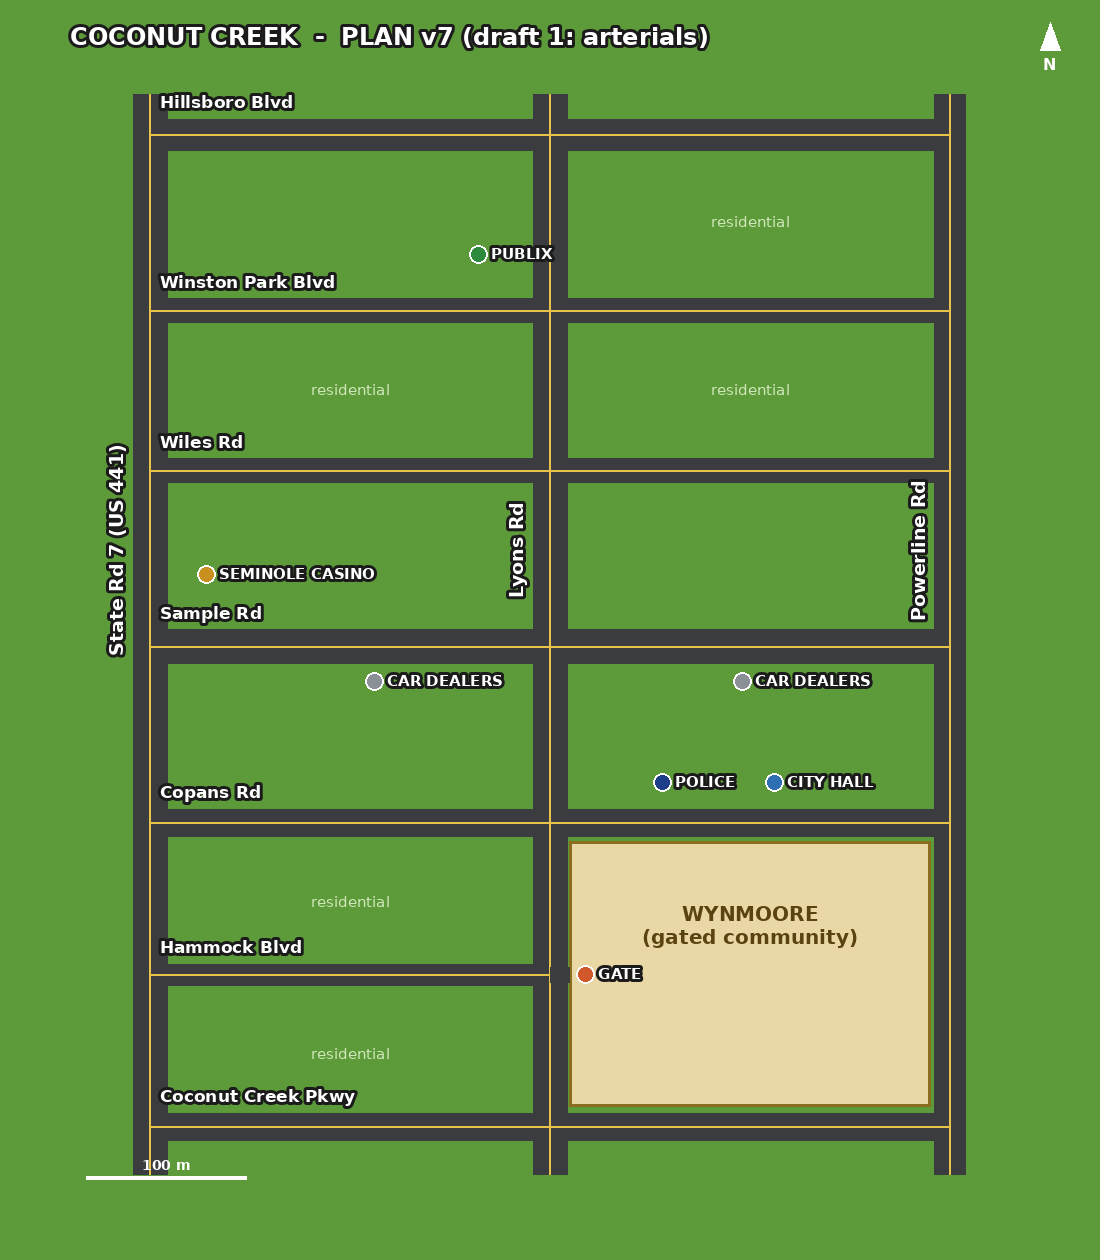
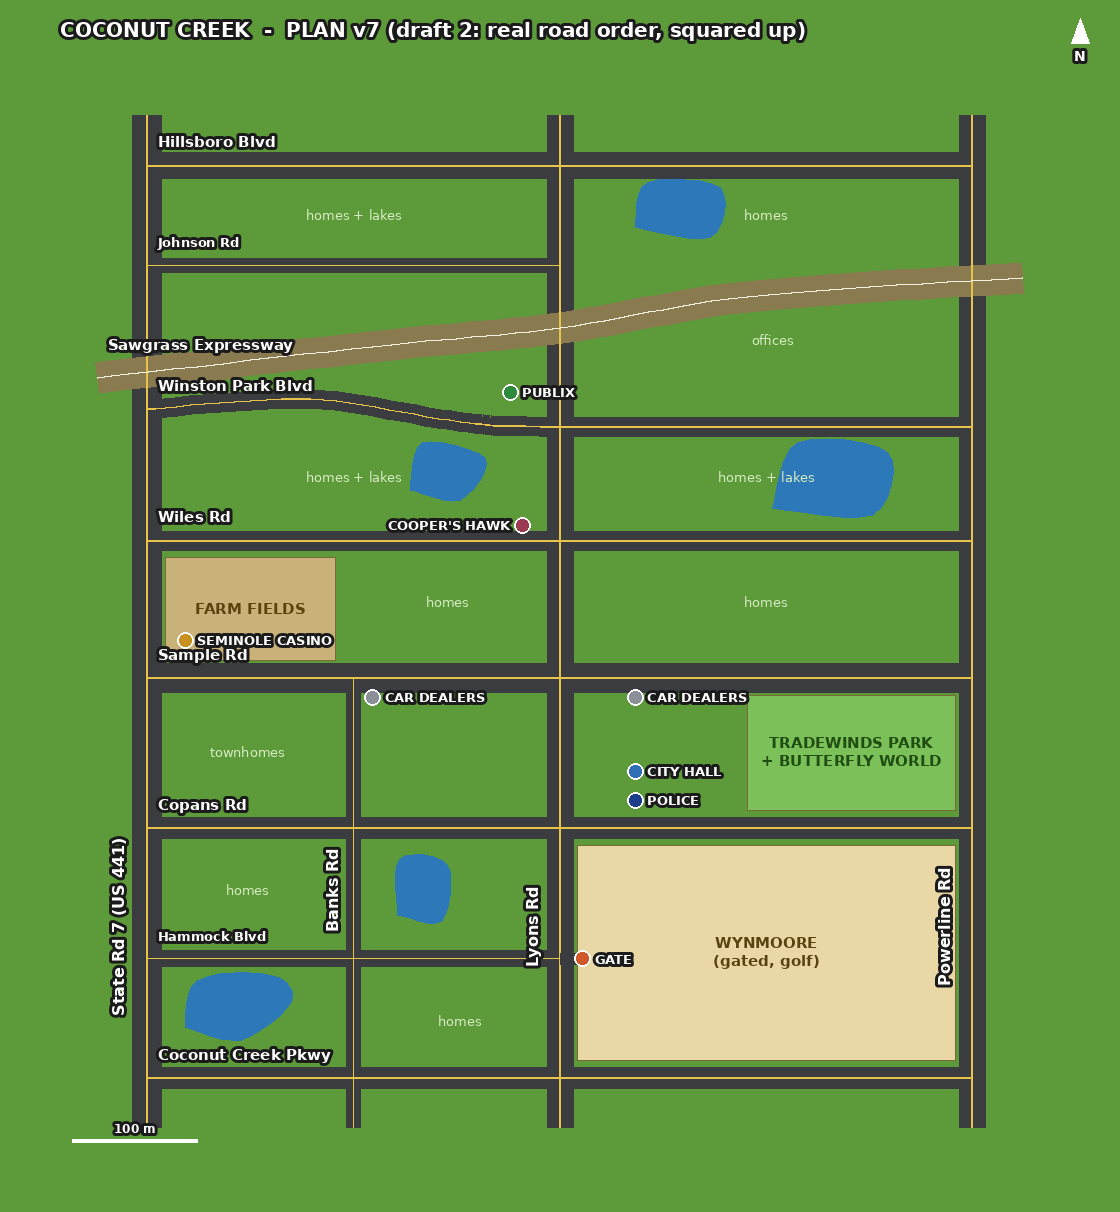
city-clone: plan v7 draft 2 (real road order from screenshots, squared up; Banks, Sawgrass Expressway, Johnson, parks)
Claude-Session: https://claude.ai/code/session_01QbDoFPGu5z24oXZd8dk3Jx

diff --git a/city-clone/plan/v7/plan_v7.py b/city-clone/plan/v7/plan_v7.py
@@ -1,73 +1,84 @@
-"""City plan v7 (round 37): the whole city re-laid from the user's description of the real Coconut Creek road grid.
-Coordinates in metres: x east, y north, origin = Lyons Rd at the south edge. Run: python3 plan_v7.py -> plan_v7.png
+"""City plan v7 (round 37): the whole city re-laid from the user's description of the real Coconut Creek road grid + their Google Maps screenshots.
+The real city is long and skinny (~3 km x 9 km); the game version keeps the real ORDER of roads but squares it up (user: "spread the roads a little wider").
+Coordinates in metres: x east, y north, origin = Lyons Rd at Coconut Creek Pkwy. Run: python3 plan_v7.py -> plan_v7.png
 This file is the single source of truth for the new layout; iterate here with the user before any 3D build."""
 from PIL import Image, ImageDraw, ImageFont
-import os
+import math, os
 
-# ---- arterials (user, round 37) ----
-NS = {  # north-south, west to east: x, width (m)
-    "State Rd 7 (US 441)": (-250, 22),
-    "Lyons Rd": (0, 22),
-    "Powerline Rd": (250, 20),
-}
-EW = [  # east-west, south to north: name, y, x0, x1, width
-    ("Coconut Creek Pkwy", 20, -250, 250, 18),
-    ("Hammock Blvd", 115, -250, 0, 14),            # only west of Lyons; east of Lyons it becomes the Wynmoore entrance
-    ("Copans Rd", 210, -250, 250, 18),
-    ("Sample Rd", 320, -250, 250, 22),
-    ("Wiles Rd", 430, -250, 250, 16),
-    ("Winston Park Blvd", 530, -250, 250, 16),
-    ("Hillsboro Blvd", 640, -250, 250, 20),
+# ---- roads: name, polyline [(x, y)...], width m, kind (art = arterial, hwy = expressway, col = collector) ----
+X441, XBANKS, XLYONS, XPOWER = -330, -165, 0, 330
+Y = dict(pkwy=0, hammock=95, copans=200, sample=320, wiles=430, winston=525, johnson=650, hillsboro=730)
+def curve(pts, n=12):                 # smooth a polyline (Catmull-Rom) so curved roads read as curves
+    out = []
+    for i in range(len(pts) - 1):
+        p0, p1, p2, p3 = pts[max(0, i - 1)], pts[i], pts[i + 1], pts[min(len(pts) - 1, i + 2)]
+        for k in range(n):
+            t = k / n; t2, t3 = t * t, t * t * t
+            out.append(tuple(.5 * ((2 * p1[j]) + (-p0[j] + p2[j]) * t + (2 * p0[j] - 5 * p1[j] + 4 * p2[j] - p3[j]) * t2 + (-p0[j] + 3 * p1[j] - 3 * p2[j] + p3[j]) * t3) for j in (0, 1)))
+    out.append(pts[-1]); return out
+ROADS = [
+    ("State Rd 7 (US 441)", [(X441, -40), (X441, 770)], 24, "art"),
+    ("Banks Rd", [(XBANKS, -40), (XBANKS, Y["sample"])], 12, "col"),                    # screenshots: west of Lyons, from the south edge up to Sample
+    ("Lyons Rd", [(XLYONS, -40), (XLYONS, 770)], 22, "art"),
+    ("Powerline Rd", [(XPOWER, -40), (XPOWER, 770)], 22, "art"),
+    ("Coconut Creek Pkwy", [(X441, Y["pkwy"]), (XPOWER, Y["pkwy"])], 18, "art"),
+    ("Hammock Blvd", [(X441, Y["hammock"]), (XLYONS, Y["hammock"])], 14, "col"),          # west of Lyons only; east of Lyons = the Wynmoore gate drive
+    ("Copans Rd", [(X441, Y["copans"]), (XPOWER, Y["copans"])], 18, "art"),
+    ("Sample Rd", [(X441, Y["sample"]), (XPOWER, Y["sample"])], 24, "art"),
+    ("Wiles Rd", [(X441, Y["wiles"]), (XPOWER, Y["wiles"])], 16, "art"),
+    ("Winston Park Blvd", curve([(X441, Y["winston"] + 10), (-200, Y["winston"] + 18), (-80, Y["winston"]), (XLYONS, Y["winston"] - 4), (XPOWER, Y["winston"] - 4)]), 16, "art"),   # real one bends up toward 441
+    ("Sawgrass Expressway", curve([(X441 - 40, 560), (-150, 585), (XLYONS, 600), (150, 625), (XPOWER + 40, 640)]), 26, "hwy"),          # the big diagonal highway between Winston Park and Johnson
+    ("Johnson Rd", [(X441, Y["johnson"]), (XLYONS, Y["johnson"])], 12, "col"),
+    ("Hillsboro Blvd", [(X441, Y["hillsboro"]), (XPOWER, Y["hillsboro"])], 22, "art"),
 ]
-# ---- areas / landmarks ----
-ZONES = [  # (label, x0, y0, x1, y1, fill)
-    ("WYNMOORE\n(gated community)", 12, 32, 238, 198, "#e9d8a6"),
+# ---- areas ----
+ZONES = [  # label, polygon, fill, text colour
+    ("WYNMOORE\n(gated, golf)", [(14, 14), (316, 14), (316, 186), (14, 186)], "#e9d8a6", "#5a4310"),
+    ("FARM FIELDS", [(-316, 334), (-180, 334), (-180, 416), (-316, 416)], "#c9b27a", "#5a4310"),
+    ("TRADEWINDS PARK\n+ BUTTERFLY WORLD", [(150, 214), (316, 214), (316, 306), (150, 306)], "#7cc05a", "#1f4d12"),
 ]
-SPOTS = [  # (label, x, y, colour)
-    ("PUBLIX", -45, 565, "#2e8b3e"),
-    ("POLICE", 70, 235, "#1d3f8a"),
-    ("CITY HALL", 140, 235, "#2f6fb3"),
-    ("SEMINOLE CASINO", -215, 365, "#c8901e"),
-    ("CAR DEALERS", -110, 298, "#8a8f98"),
-    ("CAR DEALERS", 120, 298, "#8a8f98"),
-    ("GATE", 22, 115, "#d0582a"),
+LAKES = [[(-300, 40), (-255, 30), (-215, 60), (-230, 82), (-290, 78)], [(-120, 470), (-80, 462), (-60, 495), (-110, 508)], [(170, 455), (250, 450), (262, 500), (190, 508)],
+         [(60, 680), (120, 672), (128, 712), (70, 716)], [(-130, 130), (-95, 125), (-90, 170), (-128, 175)]]
+SPOTS = [  # label, x, y, colour, side (1 = label right, -1 = left)
+    ("PUBLIX", -40, 548, "#2e8b3e", 1),
+    ("POLICE", 60, 222, "#1d3f8a", 1),
+    ("CITY HALL", 60, 245, "#2f6fb3", 1),
+    ("SEMINOLE CASINO", -300, 350, "#c8901e", 1),
+    ("CAR DEALERS", -150, 304, "#8a8f98", 1),
+    ("CAR DEALERS", 60, 304, "#8a8f98", 1),
+    ("COOPER'S HAWK", -30, 442, "#9a3b52", -1),
+    ("GATE", 18, Y["hammock"], "#d0582a", 1),
 ]
-RES = [("residential", -125, 480), ("residential", 125, 480), ("residential", 125, 585), ("residential", -125, 160), ("residential", -125, 65)]
+RES = [("homes + lakes", -165, 480), ("homes + lakes", 165, 480), ("homes", 165, 380), ("homes", -90, 380), ("homes", -250, 150), ("homes", -80, 45), ("homes + lakes", -165, 690), ("homes", 165, 690), ("townhomes", -250, 260), ("offices", 170, 590)]
 
-S = 1.6; PAD = 70
-X0, X1, Y0, Y1 = -300, 300, -20, 680
-W, H = int((X1 - X0) * S) + 2 * PAD, int((Y1 - Y0) * S) + 2 * PAD
-P = lambda x, y: (PAD + (x - X0) * S, PAD + (Y1 - y) * S)
+S = 1.25; PAD = 60
+X0, X1, Y0, Y1 = -400, 400, -60, 790
+W, H = int((X1 - X0) * S) + 2 * PAD, int((Y1 - Y0) * S) + 2 * PAD + 30
+P = lambda x, y: (PAD + (x - X0) * S, PAD + 30 + (Y1 - y) * S)
 def font(sz, bold=True):
-    try: return ImageFont.truetype("/usr/share/fonts/truetype/dejavu/DejaVuSans-Bold.ttf" if bold else "/usr/share/fonts/truetype/dejavu/DejaVuSans.ttf", sz)
-    except OSError: return ImageFont.load_default()
+    return ImageFont.truetype("/usr/share/fonts/truetype/dejavu/DejaVuSans-Bold.ttf" if bold else "/usr/share/fonts/truetype/dejavu/DejaVuSans.ttf", sz)
+OUT = lambda t, xy, sz=15, **k: d.text(xy, t, fill="white", font=font(sz), stroke_width=3, stroke_fill="#1b1b1b", **k)
 
 im = Image.new("RGB", (W, H), "#5d9a3a"); d = ImageDraw.Draw(im)
-for (lab, x0, y0, x1, y1, col) in ZONES:
-    d.rectangle([P(x0, y1), P(x1, y0)], fill=col, outline="#8a6d1f", width=3)
-    cx, cy = P((x0 + x1) / 2, (y0 + y1) / 2 + 30); d.multiline_text((cx, cy), lab, fill="#5a4310", font=font(20), anchor="mm", align="center")
-for (lab, x, y) in RES:
-    cx, cy = P(x, y); d.text((cx, cy), lab, fill="#cfe7b8", font=font(15, False), anchor="mm")
-# roads: asphalt, then a centre line
-for name, y, x0, x1, w in EW:
-    d.line([P(x0, y), P(x1, y)], fill="#3a3c40", width=int(w * S))
-for name, (x, w) in NS.items():
-    d.line([P(x, Y0 + 10), P(x, Y1 - 15)], fill="#3a3c40", width=int(w * S))
-for name, y, x0, x1, w in EW: d.line([P(x0, y), P(x1, y)], fill="#e8c34a", width=2)
-for name, (x, w) in NS.items(): d.line([P(x, Y0 + 10), P(x, Y1 - 15)], fill="#e8c34a", width=2)
-# Hammock east of Lyons = the Wynmoore entry drive with a gate
-d.line([P(0, 115), P(12, 115)], fill="#3a3c40", width=int(10 * S))
-# labels
-for name, y, x0, x1, w in EW:
-    lx, ly = P(x0 + 6, y + w / 2 + 6); d.text((lx, ly), name, fill="white", font=font(17), anchor="ls", stroke_width=3, stroke_fill="#1b1b1b")
-for name, (x, w) in NS.items():
-    t = Image.new("RGBA", (420, 40), (0, 0, 0, 0)); td = ImageDraw.Draw(t); td.text((210, 20), name, fill="white", font=font(19), anchor="mm", stroke_width=3, stroke_fill="#1b1b1b")
-    t = t.rotate(90, expand=True); cx, cy = P(x, 380); im.paste(t, (int(cx - t.width / 2 - w * S / 2 - 16), int(cy - t.height / 2)), t)
-for (lab, x, y, col) in SPOTS:
-    cx, cy = P(x, y); d.ellipse([cx - 9, cy - 9, cx + 9, cy + 9], fill=col, outline="white", width=2)
-    d.text((cx + 13, cy), lab, fill="white", font=font(15), anchor="lm", stroke_width=3, stroke_fill="#1b1b1b")
-# title, compass, scale
-d.text((PAD, 22), "COCONUT CREEK  -  PLAN v7 (draft 1: arterials)", fill="white", font=font(24), stroke_width=3, stroke_fill="#1b1b1b")
-nx, ny = W - 50, 40; d.polygon([(nx, ny - 18), (nx - 10, ny + 10), (nx + 10, ny + 10)], fill="white"); d.text((nx, ny + 24), "N", fill="white", font=font(16), anchor="mm")
-sx, sy = P(-290, -12); d.line([(sx, sy), (sx + 100 * S, sy)], fill="white", width=4); d.text((sx + 50 * S, sy - 12), "100 m", fill="white", font=font(14), anchor="mm")
+for L in LAKES: d.polygon([P(*p) for p in curve(L + L[:1], 6)], fill="#2d78b8")
+for (lab, poly, col, tc) in ZONES:
+    d.polygon([P(*p) for p in poly], fill=col, outline="#7a6a3a")
+    cx = sum(p[0] for p in poly) / len(poly); cy = sum(p[1] for p in poly) / len(poly)
+    d.multiline_text(P(cx, cy), lab, fill=tc, font=font(15), anchor="mm", align="center")
+for (lab, x, y) in RES: d.text(P(x, y), lab, fill="#d6ecc2", font=font(13, False), anchor="mm")
+for name, pts, w, kind in ROADS: d.line([P(*p) for p in pts], fill="#8a7a50" if kind == "hwy" else "#3a3c40", width=int(w * S), joint="curve")
+for name, pts, w, kind in ROADS: d.line([P(*p) for p in pts], fill="#f4f0e0" if kind == "hwy" else "#e8c34a", width=2 if kind != "col" else 1, joint="curve")
+d.line([P(XLYONS, Y["hammock"]), P(14, Y["hammock"])], fill="#3a3c40", width=int(10 * S))
+for name, pts, w, kind in ROADS:
+    if pts[0][0] == pts[-1][0]:                                       # vertical: rotated label
+        t = Image.new("RGBA", (360, 36), (0, 0, 0, 0)); ImageDraw.Draw(t).text((180, 18), name, fill="white", font=font(16), anchor="mm", stroke_width=3, stroke_fill="#1b1b1b")
+        t = t.rotate(90, expand=True); cx, cy = P(pts[0][0], 120 if name != "Banks Rd" else 150); im.paste(t, (int(cx - t.width / 2 - w * S / 2 - 14), int(cy - t.height / 2)), t)
+    else:
+        x, y = pts[0][0] + 8, pts[0][1] + (14 if kind != "hwy" else 22); OUT(name, P(x, y), 15 if kind != "col" else 13, anchor="ls")
+for (lab, x, y, col, side) in SPOTS:
+    cx, cy = P(x, y); d.ellipse([cx - 8, cy - 8, cx + 8, cy + 8], fill=col, outline="white", width=2)
+    OUT(lab, (cx + 12 * side, cy), 13, anchor="lm" if side > 0 else "rm")
+OUT("COCONUT CREEK  -  PLAN v7 (draft 2: real road order, squared up)", (PAD, 18), 20)
+nx, ny = W - 40, 34; d.polygon([(nx, ny - 16), (nx - 9, ny + 9), (nx + 9, ny + 9)], fill="white"); OUT("N", (nx, ny + 22), 14, anchor="mm")
+sx, sy = P(-390, -50); d.line([(sx, sy), (sx + 100 * S, sy)], fill="white", width=4); OUT("100 m", (sx + 50 * S, sy - 12), 12, anchor="mm")
 im.save(os.path.join(os.path.dirname(os.path.abspath(__file__)), "plan_v7.png")); print(W, H)
